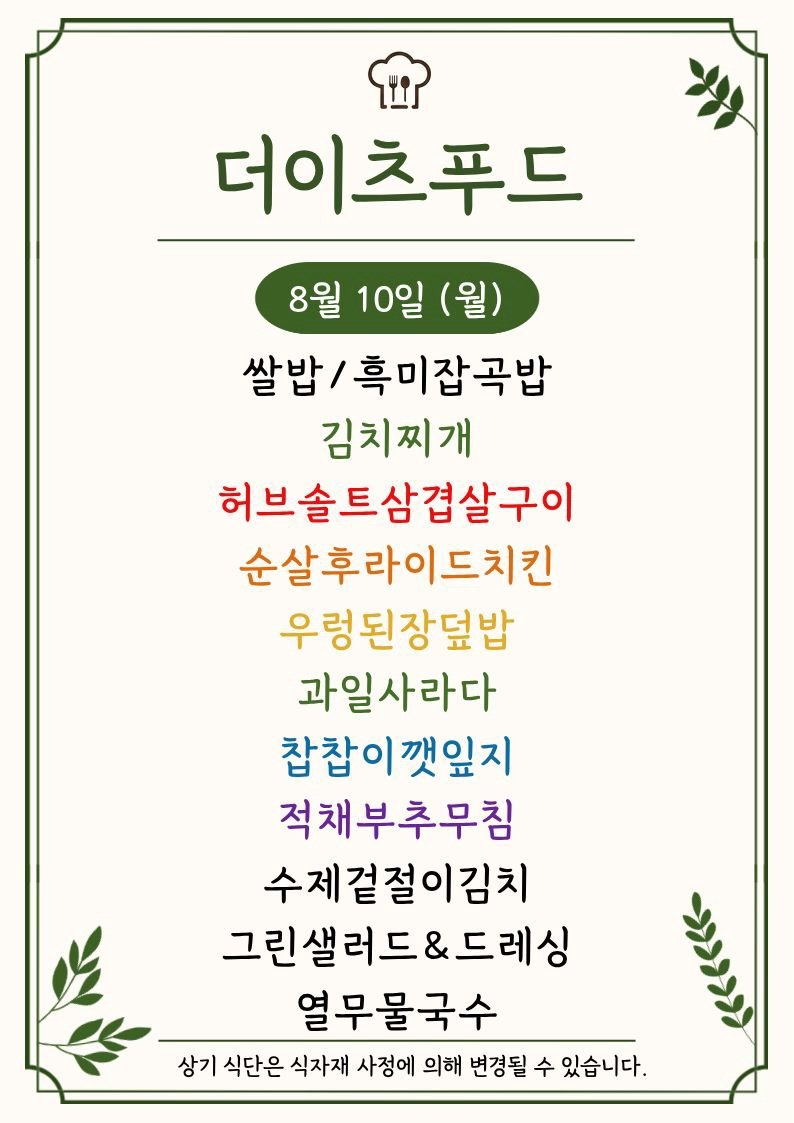
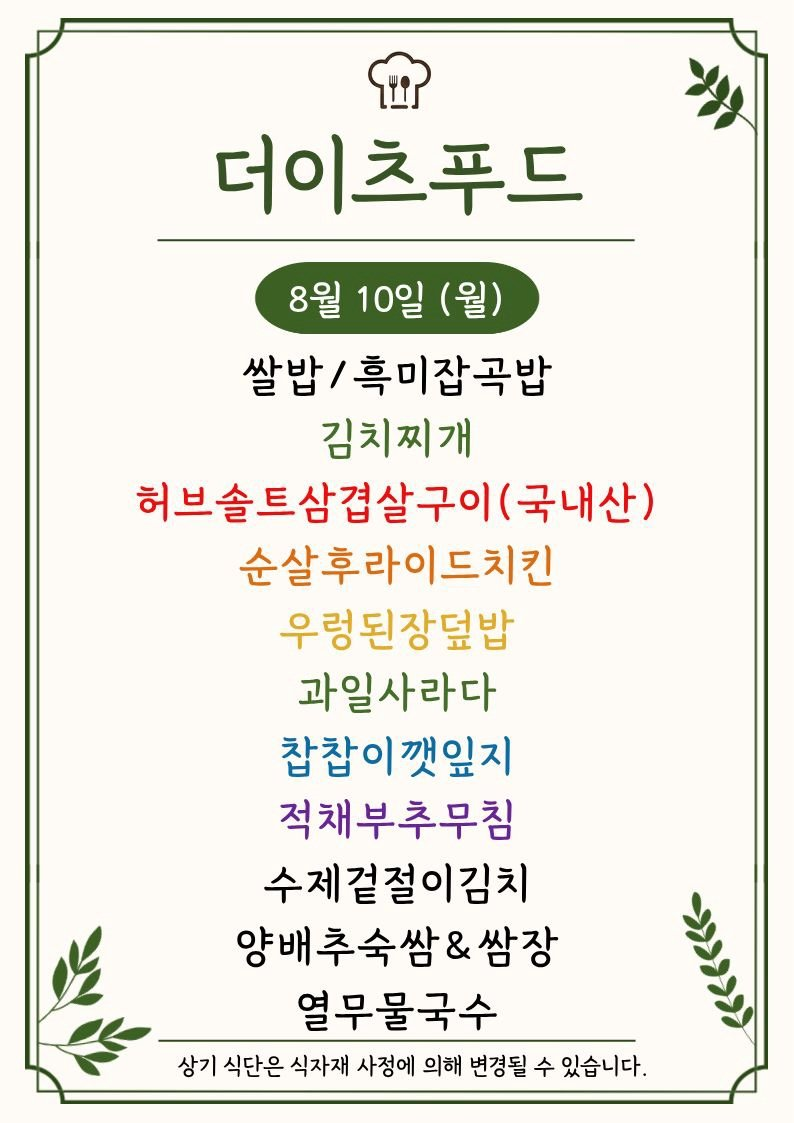
Update menu board assets

Changed region(s): [[0.1511, 0.4052, 0.8463, 0.4675], [0.3023, 0.8103, 0.7254, 0.8727]]

diff --git a/menu-today/index.html b/menu-today/index.html
@@ -209,7 +209,7 @@
 
     <section class="meta-bar">
       <div class="meta-card"><div class="meta-label">기준 날짜</div><div class="meta-value">2026년 8월 10일 월요일</div></div>
-      <div class="meta-card"><div class="meta-label">최종 가져온 시간</div><div class="meta-value">2026-08-10 11:13:13</div></div>
+      <div class="meta-card"><div class="meta-label">최종 가져온 시간</div><div class="meta-value">2026-08-10 11:18:00</div></div>
       <div class="meta-card"><div class="meta-label">확인 완료</div><div class="meta-value">9개 식당</div></div>
       <div class="meta-card"><div class="meta-label">준비중</div><div class="meta-value">3개 채널</div></div>
     </section>
@@ -265,7 +265,7 @@
             <div class="sub">가산비즈니스센터</div>
           </div>
         </div>
-        <div class="menu-inline-image"><img src="./images/raonfood.png" alt="구내식당라온푸드 식단 이미지"></div><div class="info-note">오늘 메뉴 미수집 상태입니다.</div>
+        <div class="menu-inline-image"><img src="./images/raonfood.png" alt="구내식당라온푸드 식단 이미지"></div><ul><li>사골잠터국밥</li><li>준전닭갈</li><li>오리엔탈파재돈까스</li><li>트볼스파게『</li><li>메그스프레드샌드위지</li><li>매콤부들어묵볶음</li><li>지커리파인매플무침</li><li>바람떡 &amp; 방물토마토</li><li>샐러드 &amp; 드레싱</li><li>사끌잠터국밥</li><li>져다가</li><li>ti 만기 그</li></ul>
       </article>
 
       <article class="restaurant-card">

diff --git a/guro-menu/index.html b/guro-menu/index.html
@@ -32,7 +32,7 @@
   </header>
   <section class="meta">
     <div><small>기준 날짜</small><strong>2026년 8월 10일 월요일</strong></div>
-    <div><small>최종 갱신</small><strong>2026-08-10 11:13:26</strong></div>
+    <div><small>최종 갱신</small><strong>2026-08-10 11:18:11</strong></div>
     <div><small>등록 식당</small><strong>5개</strong></div>
   </section>
   <div class="notice">공개 카카오 채널의 메뉴 이미지를 자동 수집하고 OCR로 정리합니다. 텍스트에 오타가 있을 수 있으니 식단 이미지를 함께 확인해 주세요.</div>
@@ -76,7 +76,7 @@
         </div>
         <img class="menu-image" src="./images/the-eats-food.png" alt="더이츠푸드 식단 이미지" loading="lazy">
         
-        <ul><li>더이 AZo</li><li>쌀밥/흑미잡곡밥</li><li>김치찌개</li><li>허브솔트삼겹살구이</li><li>순살후라이드치킨</li><li>과일사라다</li><li>적채부추무침</li><li>수제겉절이김치 !</li><li>그린샐러드&amp;드레싱 Y</li><li>열무물국수</li></ul>
+        <ul><li>더이 긋고 ㄷ</li><li>쌀밥/흑미잡곡밥</li><li>김치찌개</li><li>허브솔트삼겹살구이(국내산)</li><li>순살후라이드치킨</li><li>과일사라다</li><li>적채부추무침</li><li>수제겉절이김치 !</li><li>= 자</li><li>양배추숙쌈&amp;쌈장 yY</li><li>열무물국수</li></ul>
       </article>
 
       <article class="restaurant-card">
